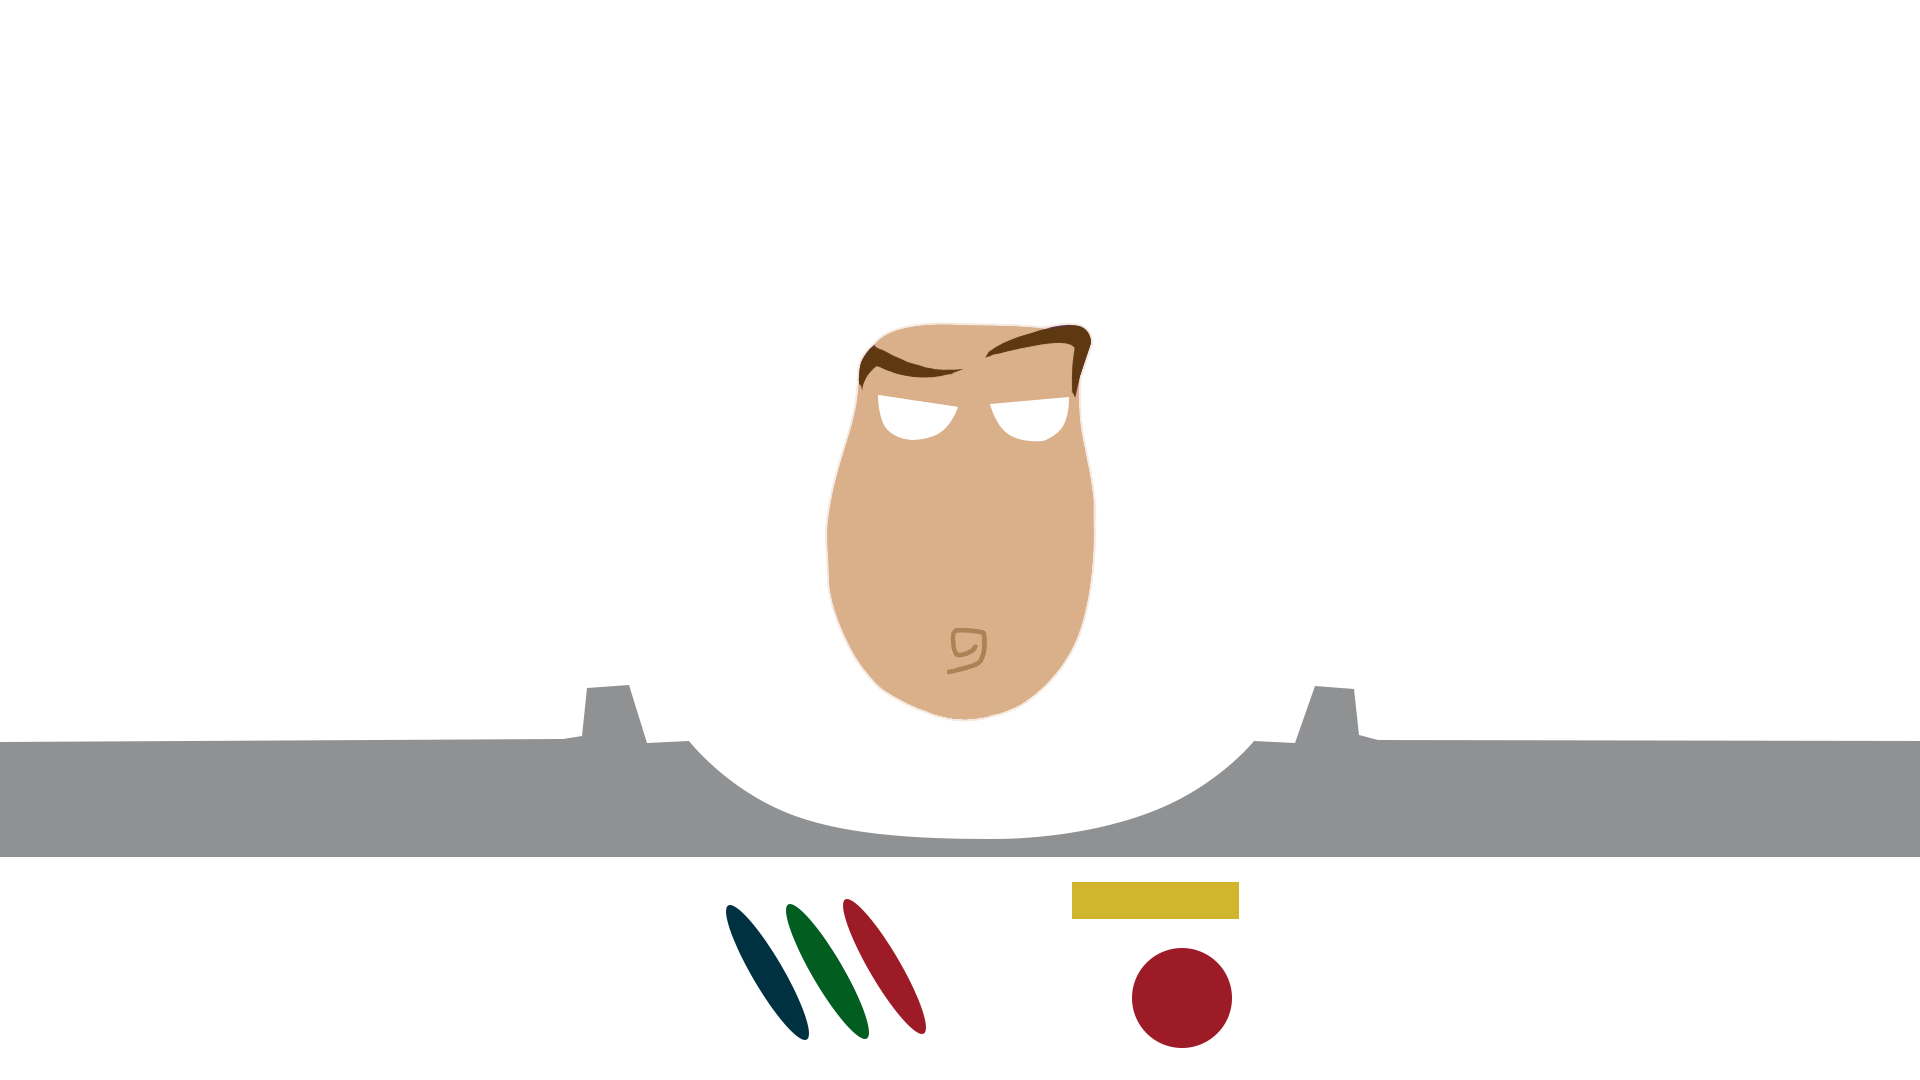
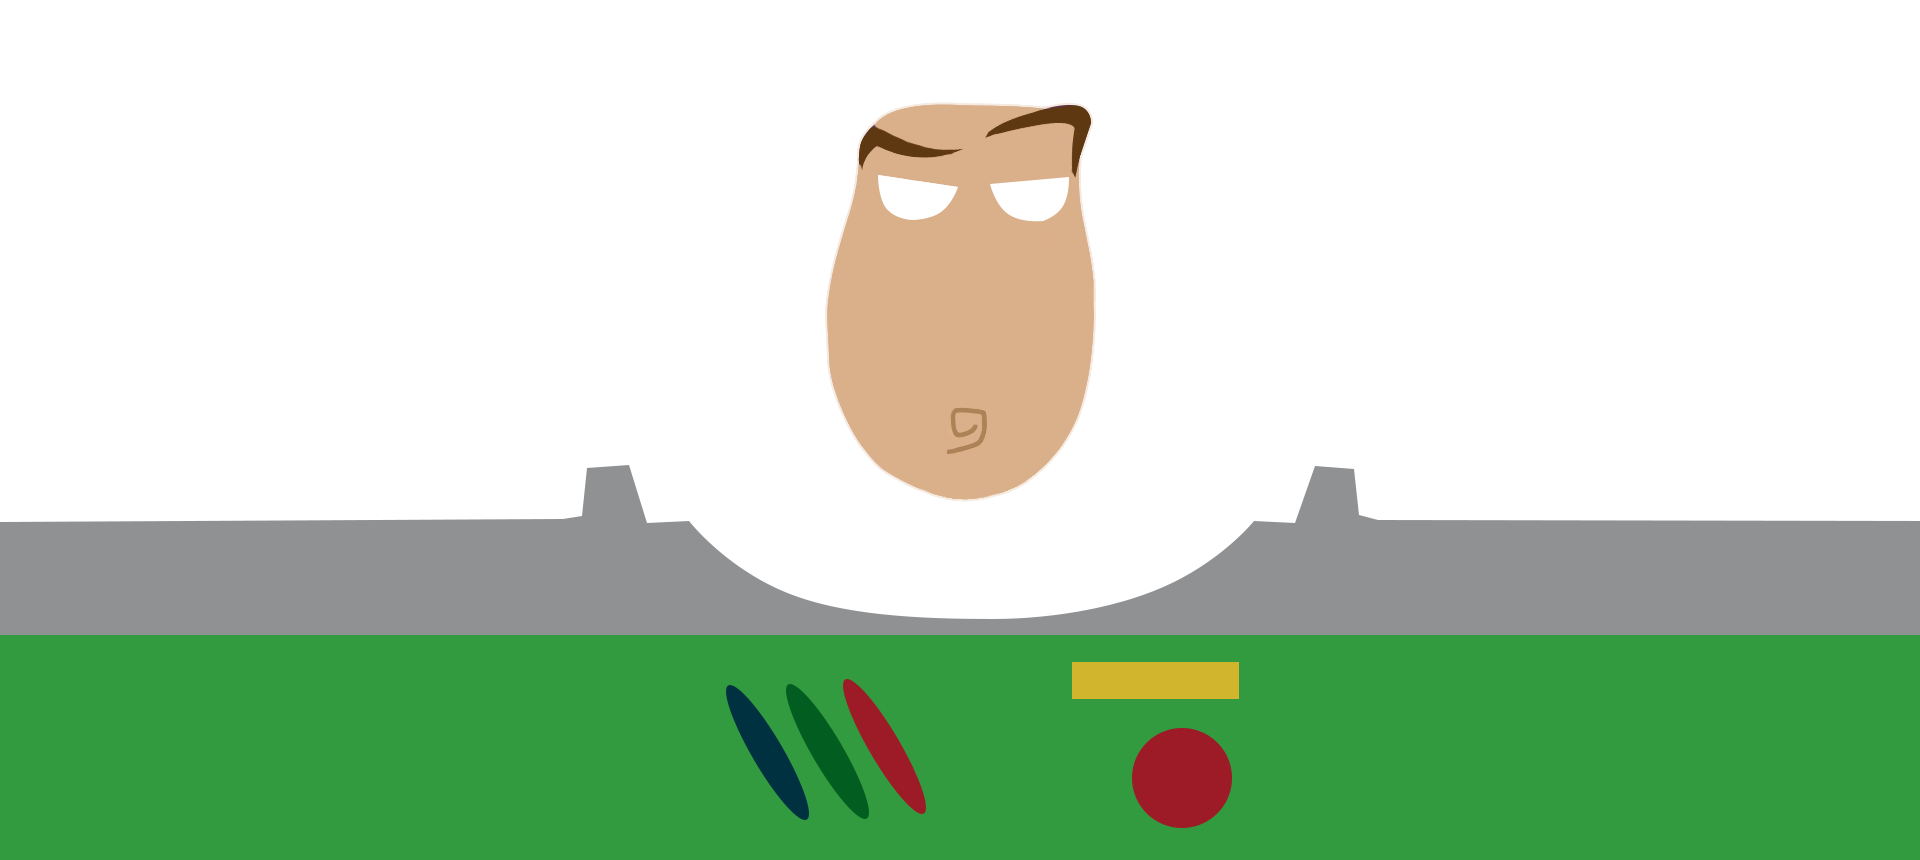
se agregan comentarios, y boton de enviar

diff --git a/TP3/Entregable/styles/style.css b/TP3/Entregable/styles/style.css
@@ -1,12 +1,3 @@
-@keyframes movimiento {
-    0% {
-        background-position-x: 0px;
-    }
-    100% {
-        background-position-x: -1880px;
-    }
-}
-
 @font-face {
     font-family: 'toy-story-font';
     src: URL('../fonts/MODENINE.TTF') format('truetype');
@@ -136,7 +127,8 @@ body {
 #menu-input {
     width: 2vh;
     border-radius: 5px 5px;
-    padding: 14px 16px;
+    padding: 14px 14px;
+    border: 2px solid #fed700;
 }
 
 .burger-menu a.icon {
@@ -334,23 +326,24 @@ body {
     background: #30973e;
     transition: max-height .35s;
 }
-.rotar{
+
+.rotar {
     display: flex;
 }
+
 .rotar img {
     margin: 5%;
-    width: 50%;
-    border-radius: 24px 24px;
+    width: 80%;
+    border-radius: 15px 15px;
     transition: all .7s ease;
     transform: perspective(600px);
     transform-origin: 100% 50%;
     transform-style: preserve-3d;
     perspective: 400px;
-
 }
 
 .rotar img:hover {
-  transform: perspective(2000px) rotateY(35deg) ;
+    transform: perspective(2000px) rotateY(35deg);
 }
 
 .rotar p {
@@ -394,22 +387,149 @@ body {
 /*Transition banner*/
 
 .transition-container img {
-    margin-top: -12%;
     width: 100%;
     z-index: 9999;
+    margin-bottom: -1%;
 }
 
-.forum {
+/* COMENTARIOS*/
+
+#forum {
+    padding-top: 2%;
     height: 100%;
-    background-color: #2c8638;
-    position: absolute;
-    top: 118%;
+    background-color: #329b3f;
+    display: flex;
+    justify-content: center;
+    flex-direction: column;
+    align-content: space-around;
     width: 100%;
-    z-index: -1;
+}
+
+.coment-title{
+    width: 30%;
+    align-self: center;
+    margin-bottom: 2%;
+}
+
+.form-coment {
+    border-radius: 5px;
+    background-color: #d7c8e4;
+    border: 2px solid #7b35ac;
+    padding: 20px;
+    width: 30%;
+    align-self: center;
+    margin: 3%;
+    opacity: 0;
+}
+
+input[type=text], select, textarea {
+    width: 100%;
+    padding: 12px;
+    border: 1px solid #7b35ac;
+    border-radius: 5px;
+    box-sizing: border-box;
+    margin-top: 6px;
+    margin-bottom: 16px;
+    resize: vertical;
+}
+
+#button-send {
+    width: 100%;
+    background-color: #854aaf;
+    color: white;
+    padding: 12px 20px;
+    border: none;
+    border-radius: 4px;
+    cursor: pointer;
+    text-align: center;
+    font-weight: bolder;
+    font-family: toy-story-font;
+    font-size: 100%;
+    animation: fill .2s linear forwards;
+}
+
+#button-send:hover {
+    background-color: #7019af;
+}
+
+.button-img{
+    width:10%;
+    animation: loading 2s infinite ease-in-out;
+    transform-origin: 50%;
+    display: none;
+    margin-left: 45%;
+}
+
+form label {
+    color: #000;
+    font-weight: 400;
+    font-family: toy-story-font;
+}
+
+/*Caja de comentarios*/
+
+.comentarios {
+    width: 70%;
+    align-self: center;
+}
+
+.cajaPar, .cajaImpar {
+    font-family: Century Gothic, CenturyGothic, AppleGothic, sans-serif;
+    color: #ffffff;
+    font-size: 18px;
+    font-weight: 400;
+    text-align: center;
+    background: #a57bc4;
+    margin: 0 0 25px;
+    overflow: hidden;
+    padding: 20px;
+    border: 2px solid #7b35ac;
+    animation: zoomOutComents 3s forwards;
+    opacity: 0;
+}
+
+.cajaPar:hover, .cajaImpar:hover {
+    background: #9452c4;
+    animation: zoomInComents 3s forwards;
+}
+
+.cajaPar {
+    border-radius: 35px 0px 35px 0px;
+}
+
+.cajaImpar {
+    border-radius: 0px 35px 0px 35px;
+}
+
+.cajaPar:hover {
+    border-radius: 0px 35px 0px 35px;
+}
+
+.cajaImpar:hover {
+    border-radius: 35px 0px 35px 0px;
+}
+
+.username {
+    color: #000;
+    font-weight: 400;
+    font-family: toy-story-font;
 }
 
 .hidden {
     visibility: hidden;
+}
+@keyframes fill {
+    from { transform: scaleX(0); }
+    to { transform: scaleX(1); }
+  }
+
+@keyframes movimiento {
+    0% {
+        background-position-x: 0px;
+    }
+    100% {
+        background-position-x: -1880px;
+    }
 }
 
 @keyframes desplazar {
@@ -433,6 +553,24 @@ body {
     }
     100% {
         background-position: -4px;
+    }
+}
+
+@keyframes zoomOutComents {
+    0% {
+        width: 100%;
+    }
+    100% {
+        width: 90%;
+    }
+}
+
+@keyframes zoomInComents {
+    0% {
+        width: 90%;
+    }
+    100% {
+        width: 100%;
     }
 }
 

diff --git a/TP3/Entregable/js/script_events.js b/TP3/Entregable/js/script_events.js
@@ -1,32 +1,67 @@
 function disableScroll() {
-  window.scrollTo(0, 0);
+	window.scrollTo(0, 0);
 }
 
 let loading = () => {
-  document.querySelector(".acordeon").style.filter = `blur(4px)`;
-  document.querySelector(".burger-menu").style.filter = `blur(4px)`;
-  document.querySelector(".transition-container").style.filter = `blur(4px)`;
-  document.querySelector(".forum").style.filter = `blur(4px)`;
-
-  document.querySelector(".loading").classList.remove("hidden");
-  window.addEventListener('scroll', disableScroll);
-  setTimeout(function () { stopLoading(); }, 6000);
+	document.querySelector(".acordeon").style.filter = `blur(4px)`;
+	document.querySelector(".burger-menu").style.filter = `blur(4px)`;
+	document.querySelector(".transition-container").style.filter = `blur(4px)`;
+	document.querySelector("#forum").style.filter = `blur(4px)`;
+	document.querySelector(".loading").classList.remove("hidden");
+	setTimeout(function () { stopLoading(); }, 6000);
 }
 
 let stopLoading = () => {
-  document.querySelector(".acordeon").style.filter = `blur(0px)`;
-  document.querySelector(".burger-menu").style.filter = `blur(0px)`;
-  document.querySelector(".transition-container").style.filter = `blur(0px)`;
-  document.querySelector(".forum").style.filter = `blur(0px)`;
-  document.querySelector(".loading").classList.add("hidden");
-  window.removeEventListener('scroll', disableScroll);
+	document.querySelector(".acordeon").style.filter = `blur(0px)`;
+	document.querySelector(".burger-menu").style.filter = `blur(0px)`;
+	document.querySelector(".transition-container").style.filter = `blur(0px)`;
+	document.querySelector("#forum").style.filter = `blur(0px)`;
+	document.querySelector(".loading").classList.add("hidden");
+	window.removeEventListener('scroll', disableScroll);
 }
-
 
 //MENU HAMBURGESA
 function abrirMenu() {
-  document.querySelector("#myLinks").classList.toggle("transform-active");
+	document.querySelector("#myLinks").classList.toggle("transform-active");
+	document.querySelector("#forum-link").addEventListener("click", loading);
 }
 document.querySelector("#menu-input").addEventListener("click", abrirMenu);
+document.querySelector(".cajaPar").style.transform = "translateX(-1000 px)";
+document.querySelector(".cajaImpar").style.transform = "translateX(1000 px)";
 
+//animar entrada de comentarios
+let changeOpacity = (className, opacity) => {
+	var elems = document.querySelectorAll(className);
+	var index = 0, length = elems.length;
+	for (; index < length; index++) {
+		elems[index].style.transition = "opacity 2s linear 0s";
+		elems[index].style.opacity = opacity;
+	}
+}
+window.onscroll = function () {
+	let pos = window.pageYOffset || document.documentElement.scrollTop;
+	changeOpacity(".cajaPar", pos * 0.001);
+	changeOpacity(".cajaImpar", pos * 0.001);
+	changeOpacity(".form-coment", (pos - 300) * 0.001);
+}
+
+//animar boton de send
+document.querySelector("#button-send").addEventListener("click", function (e) {
+	e.preventDefault();
+	document.querySelector(".button-text").style.transition = "opacity .5s linear 0s";
+	document.querySelector(".button-img").style.transition = "opacity .5s linear 0s";
+	document.querySelector(".button-text").style.display = "none";
+	document.querySelector(".button-text").innerHTML = "Enviado exitosamente";
+	document.querySelector(".button-img").style.display = "block";
+	setTimeout(function () { 
+		document.querySelector("#button-send").style.background = "#329b3f";
+		document.querySelector(".button-text").style.display = "block";
+		document.querySelector(".button-img").style.display = "none";
+		setTimeout(function () { 
+			document.querySelector("#button-send").style.background = "#854aaf";
+			document.querySelector(".button-text").innerHTML = "Enviar comentario";
+		}, 3000);
+	}, 3000);
+
+});
 //document.addEventListener("DOMContentLoaded", loading);

diff --git a/TP3/Entregable/events.html b/TP3/Entregable/events.html
@@ -18,7 +18,7 @@
         <div class="transform" id="myLinks">
             <a href="index.html">INICIO</a>
             <a href="events.html">EVENTOS</a>
-            <a href="forum.html">FORO</a>
+            <a id="forum-link" href="events.html#forum">FORO</a>
             <a href="https://disneylatino.com/">PELICULAS</a>
             <a href="https://preview.disneyplus.com">DISNEY+</a>
             <a href="https://www.pixar.com/">PIXAR</a>
@@ -88,9 +88,37 @@
     <div class="transition-container">
         <img src="./images/transition-events.png" alt="">
     </div>
-    <div class="forum">
+    <section id="forum">
+        <img class ="coment-title" src="./images/coments.png" alt="" srcset="">
+        <div class="comentarios">
+            <p class="cajaPar"><span class="username">Pabloka:</span> Muy bueno el evento pasado!!</p>
+            <p class="cajaImpar"><span class="username">Triki-Triki:</span> La cuatro me parecio innecesaria</p>
+            <p class="cajaPar"><span class="username">JedY-BoY:</span> No entendi la 3, el resto re buenas</p>
+            <p class="cajaImpar"><span class="username">Gulian:</span> Mira, la uno y la dos son las mejores, que se yo!
+            </p>
+            <p class="cajaPar"><span class="username">SSAAMMAA:</span> Cuanta nostalgia viejo, los productos son lo
+                mas!!!</p>
+            <p class="cajaImpar"><span class="username">Rubicon:</span> Encontre muchos errores en la escena que se
+                suben al avion en la 2 :( </p>
+        </div>
+        <div class="form-coment">
+            <form>
 
-    </div>
+                <label for="fname">Nombre</label>
+                <input type="text" id="fname" name="firstname" placeholder="Ingrese aqui su nombre">
+
+                <label for="lname">Apellido</label>
+                <input type="text" id="lname" name="lastname" placeholder="Ingrese aqui su apellido">
+
+                <label for="subject">Comentario</label>
+                <textarea id="subject" name="subject" placeholder="Deje un comentario..."
+                    style="height:200px"></textarea>
+
+                <button id="button-send"><span class="button-text">Enviar comentario</span> <img class="button-img" src="./images/loading.png" alt=""></button>
+
+            </form>
+        </div>
+    </section>
 </body>
 <script src="./js/script_events.js"></script>
 

diff --git a/TP3/Entregable/index.html b/TP3/Entregable/index.html
@@ -18,7 +18,7 @@
         <div class="transform" id="myLinks">
             <a href="index.html">INICIO</a>
             <a href="events.html">EVENTOS</a>
-            <a href="forum.html">FORO</a>
+            <a href="events.html#forum">FORO</a>
             <a href="https://disneylatino.com/">PELICULAS</a>
             <a href="https://preview.disneyplus.com">DISNEY+</a>
             <a href="https://www.pixar.com/">PIXAR</a>
